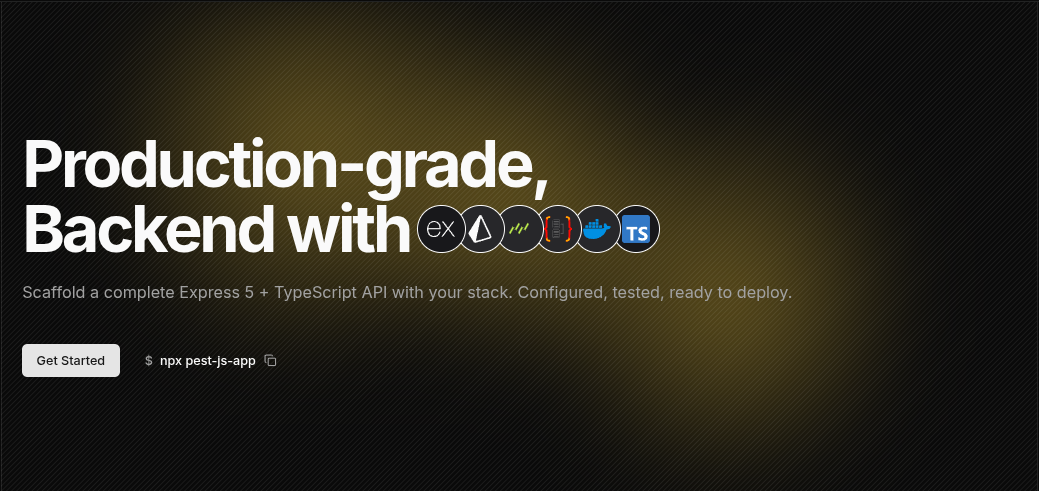
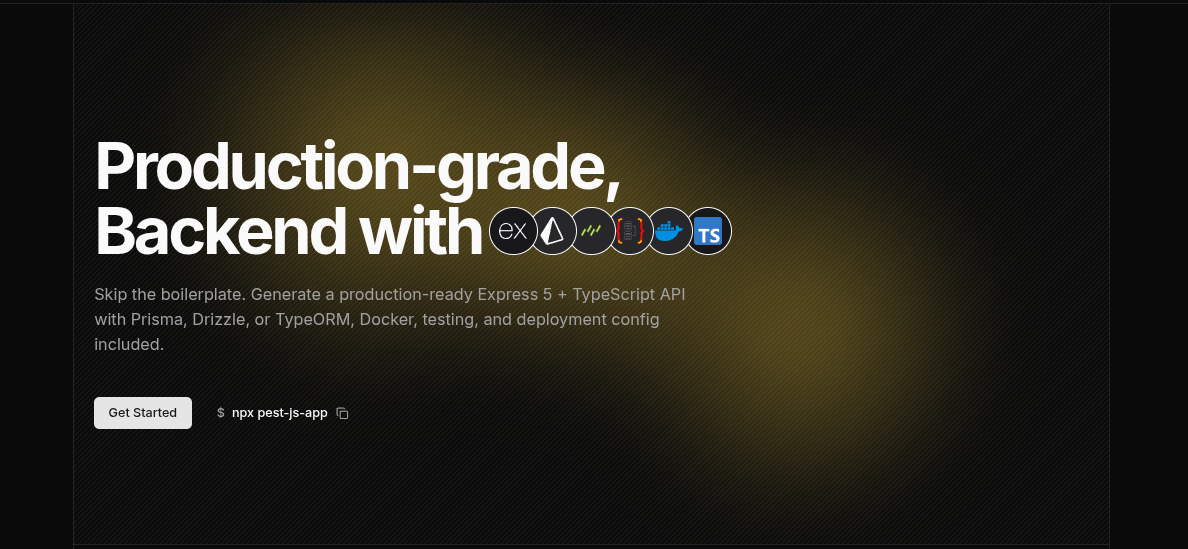
feat(www): enhance landing page with scrolling code cards and update hero text for clarity

Changed region(s): [[0.0, 0.1527, 0.8624, 0.8248], [0.0, 0.7026, 0.308, 0.7943], [0.77, 0.8554, 0.8008, 0.8859]]

diff --git a/www/src/components/landing/cta.tsx b/www/src/components/landing/cta.tsx
@@ -1,27 +1,183 @@
+import { Docker } from "@/components/icons/docker";
+import { GitHub } from "@/components/icons/github";
+import { Prisma } from "@/components/icons/prisma";
+import { TypeScript } from "@/components/icons/typescript";
 import { AuroraBackground } from "@/components/landing/aurora-bg";
 import { CopyCommand } from "@/components/landing/copy-command";
 import { Button } from "@/components/ui/button";
 import Link from "next/link";
+import type { ReactNode } from "react";
+
+type CodePart =
+  | { token: string; cls: string }
+  | { text: string; cls?: string }
+  | { br: true };
+
+const BR: CodePart = { br: true };
+
+const cards: { filename: string; icon: ReactNode; lines: CodePart[] }[] = [
+  {
+    filename: "Dockerfile",
+    icon: <Docker className="size-3.5" />,
+    lines: [
+      { token: "FROM", cls: "text-purple-400" },
+      { text: " node:20-slim " },
+      { token: "AS", cls: "text-purple-400" },
+      { text: " build" },
+      BR,
+      { token: "WORKDIR", cls: "text-purple-400" },
+      { text: " /app" },
+      BR,
+      { token: "COPY", cls: "text-purple-400" },
+      { text: " package*.json ./" },
+      BR,
+      { token: "RUN", cls: "text-purple-400" },
+      { text: " npm ci" },
+      BR,
+      { token: "COPY", cls: "text-purple-400" },
+      { text: " . ." },
+      BR,
+      { token: "RUN", cls: "text-purple-400" },
+      { text: " npm run build" },
+    ],
+  },
+  {
+    filename: "schema.prisma",
+    icon: <Prisma className="size-3.5" />,
+    lines: [
+      { token: "model", cls: "text-purple-400" },
+      { text: " Example ", cls: "text-green-400" },
+      { text: "{" },
+      BR,
+      { text: "  id    " },
+      { text: "Int", cls: "text-cyan-400" },
+      { text: "    @id @default(" },
+      { text: "autoincrement()", cls: "text-yellow-400" },
+      { text: ")" },
+      BR,
+      { text: "  name  " },
+      { text: "String", cls: "text-cyan-400" },
+      BR,
+      { text: "  email " },
+      { text: "String", cls: "text-cyan-400" },
+      { text: " @unique" },
+      BR,
+      { text: "}" },
+    ],
+  },
+  {
+    filename: "app.ts",
+    icon: <TypeScript className="size-3.5" />,
+    lines: [
+      { token: "import", cls: "text-purple-400" },
+      { text: " express " },
+      { token: "from", cls: "text-purple-400" },
+      { text: " " },
+      { text: "'express'", cls: "text-green-400" },
+      BR,
+      BR,
+      { token: "const", cls: "text-purple-400" },
+      { text: " app = " },
+      { text: "express", cls: "text-cyan-400" },
+      { text: "()" },
+      BR,
+      { text: "app." },
+      { text: "use", cls: "text-yellow-400" },
+      { text: "(" },
+      { text: "helmet", cls: "text-cyan-400" },
+      { text: "())" },
+      BR,
+      { text: "app." },
+      { text: "use", cls: "text-yellow-400" },
+      { text: "(" },
+      { text: "cors", cls: "text-cyan-400" },
+      { text: "())" },
+      BR,
+      { text: "app." },
+      { text: "use", cls: "text-yellow-400" },
+      { text: "(" },
+      { text: "pinoHttp", cls: "text-cyan-400" },
+      { text: "())" },
+    ],
+  },
+];
+
+function CodeCard({
+  filename,
+  icon,
+  lines,
+  className,
+}: {
+  filename: string;
+  icon: ReactNode;
+  lines: CodePart[];
+  className?: string;
+}) {
+  return (
+    <div
+      className={`rounded-xl border border-white/8 bg-[#0a0a0a]/90 w-[30rem] backdrop-blur-sm ${className}`}
+    >
+      <div className="flex items-center gap-2 border-b border-white/6 px-3 py-2">
+        <span className="text-white/40">{icon}</span>
+        <span className="text-xs text-white/40">{filename}</span>
+      </div>
+      <div className="px-4 py-3 font-mono text-[11px] leading-relaxed text-white/70">
+        {lines.map((part, i) => {
+          if ("br" in part) return <br key={i} />;
+          if ("token" in part)
+            return (
+              <span key={i} className={part.cls}>
+                {part.token}
+              </span>
+            );
+          return (
+            <span key={i} className={part.cls}>
+              {part.text}
+            </span>
+          );
+        })}
+      </div>
+    </div>
+  );
+}
 
 export function Cta() {
   return (
-    <section className="relative">
+    <section className="relative overflow-hidden">
       <AuroraBackground />
-      <div className="relative mx-auto flex w-full max-w-6xl flex-col items-center px-6 py-20 text-center sm:py-28">
-        <h2 className="text-3xl font-bold tracking-tight sm:text-4xl">
-          Your next API is one command away.
-        </h2>
-        <p className="mt-3 text-lg text-muted-foreground">
-          Configured. Tested. Dockerized.
-        </p>
+      <div className="relative mx-auto w-full max-w-6xl lg:flex  lg:justify-between lg:items-center lg:gap-12 px-6">
+        {/* Left */}
+        <div className="">
+          <h2 className="text-3xl font-bold tracking-tight sm:text-4xl lg:text-5xl">
+            Ready to build?
+          </h2>
+          <p className="mt-4 max-w-lg text-lg text-muted-foreground">
+            Generate a complete backend with one command. Express 5, TypeScript,
+            your database, Docker, testing, and deployment config included.
+          </p>
 
-        <div className="mt-10 flex gap-4">
-          <CopyCommand command="npx pest-js-app" />
-        <Button variant="link" asChild>
-          <Link href="/docs">Read the Docs</Link>
-        </Button>
+          <div className="mt-8 flex flex-wrap items-center gap-3">
+            <CopyCommand command="npx pest-js-app" />
+          </div>
         </div>
 
+        {/* Right — scrolling code cards */}
+        <div
+          className="relative hidden lg:block h-80 overflow-hidden"
+          aria-hidden="true"
+
+        >
+          <div className="flex flex-col gap-3 animate-scroll-up">
+            {[...cards, ...cards].map((card, i) => (
+              <CodeCard
+                key={`${card.filename}-${i}`}
+                filename={card.filename}
+                icon={card.icon}
+                lines={card.lines}
+              />
+            ))}
+          </div>
+        </div>
       </div>
     </section>
   );

diff --git a/www/src/components/landing/copy-command.tsx b/www/src/components/landing/copy-command.tsx
@@ -14,7 +14,11 @@ export function CopyCommand({ command }: { command: string }) {
   }, [command]);
 
   return (
-    <Button type="button" onClick={handleCopy} variant={"ghost"}>
+    <button
+      type="button"
+      onClick={handleCopy}
+      className="p-0 py-0 flex items-center gap-2"
+    >
       <span className="text-muted-foreground">$</span>
       <span>{command}</span>
       <span className="relative flex size-4 items-center justify-center">
@@ -29,6 +33,6 @@ export function CopyCommand({ command }: { command: string }) {
           }`}
         />
       </span>
-    </Button>
+    </button>
   );
 }

diff --git a/www/src/components/landing/hero.tsx b/www/src/components/landing/hero.tsx
@@ -56,9 +56,10 @@ export function Hero() {
           </span>
         </h1>
 
-        <p className="relative text-lg text-muted-foreground">
-          Scaffold a complete Express 5 + TypeScript API with your stack.
-          Configured, tested, ready to deploy.
+        <p className="relative text-lg text-muted-foreground max-w-2xl">
+          Skip the boilerplate. Generate a production-ready Express 5 +
+          TypeScript API with Prisma, Drizzle, or TypeORM, Docker, testing, and
+          deployment config included.
         </p>
 
         <div className="relative flex items-center gap-3 mt-6">

diff --git a/www/src/app/global.css b/www/src/app/global.css
@@ -31,6 +31,16 @@
   --color-border: var(--border);
   --color-input: var(--input);
   --color-ring: var(--ring);
+  --animate-scroll-up: scroll-up 20s linear infinite;
+}
+
+@keyframes scroll-up {
+  0% {
+    transform: translateY(0);
+  }
+  100% {
+    transform: translateY(-50%);
+  }
 }
 
 :root {
